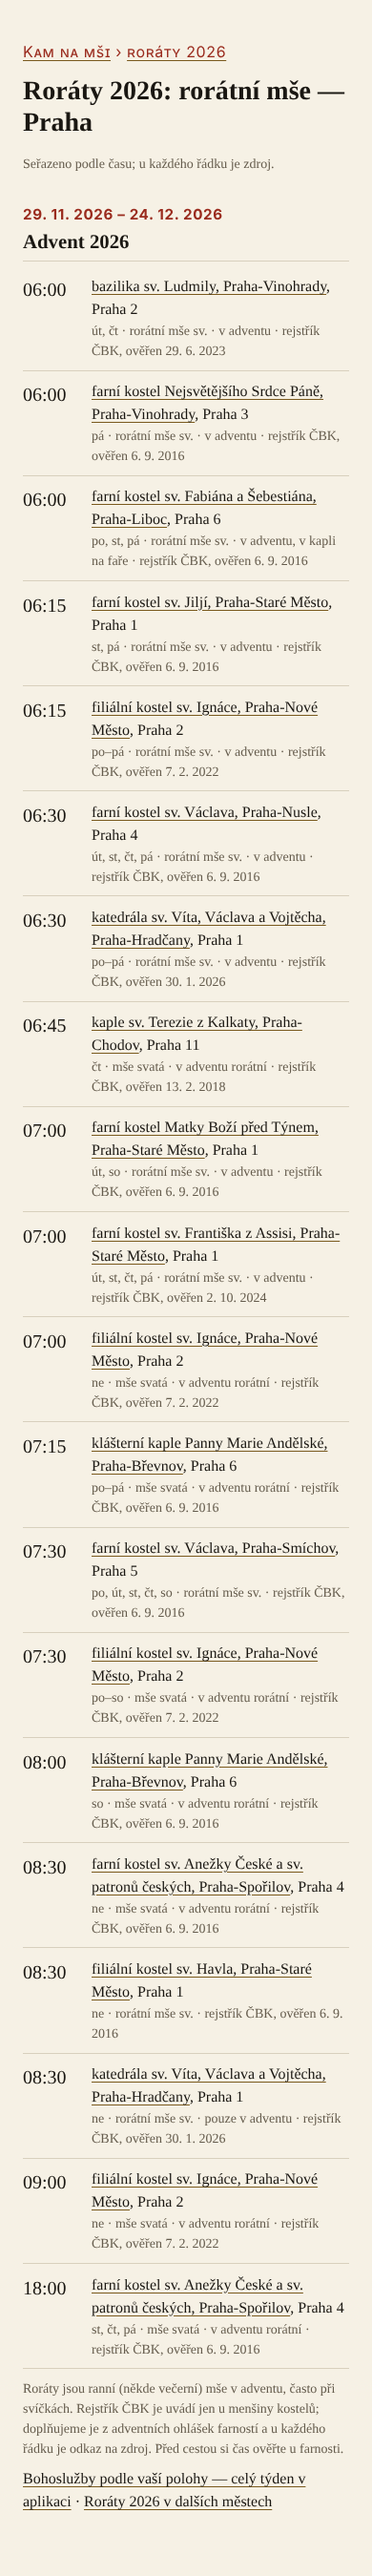
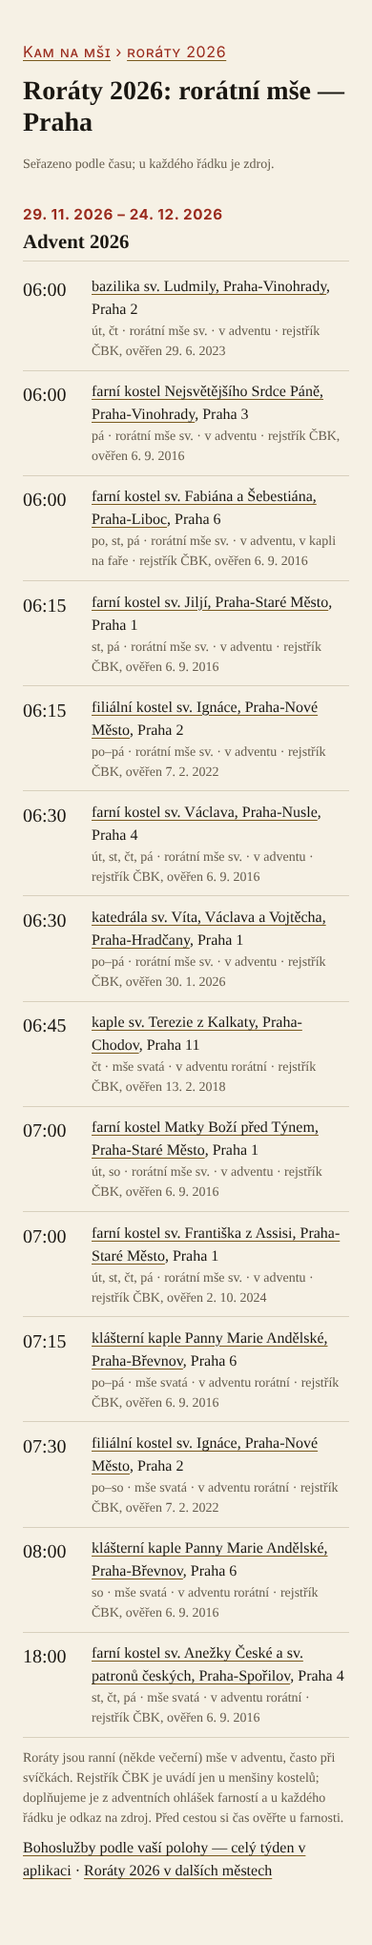
season pages: roráty time from the note; no Sundays; only rows that say Advent; http(s) sources
Review finding on #94: Chrudim listed the weekly 07:30 while the note says
'v adventu od 7:00 hodin roráty'. The note's time now wins. Sunday rows are
the ordinary Sunday Mass (no roráty on an Advent Sunday) and are left out;
year-round 'rorátní' rows that never mention Advent too. Source links only
for http(s).

Claude-Session: https://claude.ai/code/session_017mKbabRUGjLHwn1k2PHwjP

diff --git a/src/domain/season.ts b/src/domain/season.ts
@@ -108,7 +108,8 @@ interface Row {
 }
 
 function sourceHtml(c: SeasonCorrection | undefined, entry: RawEntry): string {
-  if (c) return `<a href="${esc(c.source)}">ohlášky farnosti</a> (${esc(c.source_date)})`
+  if (c && /^https?:\/\//i.test(c.source)) return `<a href="${esc(c.source)}">ohlášky farnosti</a> (${esc(c.source_date)})`
+  if (c) return `ohlášky farnosti (${esc(c.source_date)})`
   return entry.u ? `rejstřík ČBK, ověřen ${esc(dateCz(entry.u))}` : 'rejstřík ČBK'
 }
 
@@ -125,15 +126,20 @@ function rorateRows(id: string, entry: RawEntry, advent: { start: string; end: s
     if (!RORATE.test(`${r[4]} ${r[5]}`) || isConfession(r[4])) continue
     // "v adventu 2019": the parish wrote it for a past Advent
     if ([...r[5].matchAll(/\b(20\d\d)\b/g)].some((m) => Number(m[1]) < Number(advent.end.slice(0, 4)))) continue
+    // a year-round "rorátní" row that never says Advent is a registry label, not roráty
+    if (!/advent/i.test(`${r[4]} ${r[5]}`)) continue
     const rule = parseNote(r[5])
-    const on = [...r[0]].filter((wd) =>
+    // no roráty on an Advent Sunday: a Sunday row is the ordinary Sunday Mass
+    const on = [...r[0]].filter((wd) => wd !== '7').filter((wd) =>
       days.some((d) => {
         const [y, m, dd] = d.split('-').map(Number)
         return String(new Date(utc(d)).getUTCDay() || 7) === wd && rule.runsOn(y, m, dd)
       }),
     )
     if (!on.length) continue
-    out.push({ churchId: id, time: hhmm(r[1]), when: regDays(on.join('')), type: r[4], lang: normalizeLang(r[2]), greek: r[3] === 1, note: r[5].trim(), source: sourceHtml(undefined, entry) })
+    // "v adventu od 7:00 hodin roráty": the note gives the roráty time, the row the weekly one
+    const own = /(?:od|v)\s+(\d{1,2})[:.](\d{2})\s*(?:hod\S*\s+)?roráty/i.exec(r[5])
+    out.push({ churchId: id, time: own ? `${own[1].padStart(2, '0')}:${own[2]}` : hhmm(r[1]), when: regDays(on.join('')), type: r[4], lang: normalizeLang(r[2]), greek: r[3] === 1, note: r[5].trim(), source: sourceHtml(undefined, entry) })
   }
   for (const r of entry.x ?? []) {
     if (r[0] < advent.start || r[0] > advent.end || !RORATE.test(`${r[4]} ${r[5]}`)) continue

diff --git a/src/domain/season.test.ts b/src/domain/season.test.ts
@@ -78,6 +78,49 @@ describe('seasonCityPage advent — roráty', () => {
     expect(p.body).not.toContain('2019')
   })
 
+  it('lists the roráty time the note gives, not the weekly time of the row (Chrudim)', () => {
+    const p = seasonCityPage({
+      kind: 'advent',
+      city: CITY,
+      entries: {
+        '1': entry([['6', '07:30', 'česky', 0, '', 'v adventu od 7:00 hodin roráty']]),
+        '2': entry([['6', '07:30', 'česky', 0, '', 'zimní čas, v adventu od 6.30 hodin roráty']]),
+      },
+      corrections: [],
+      today: '2026-11-03',
+    })
+    const times = [...p.body.matchAll(/<span class="t">([^<]+)<\/span>/g)].map((m) => m[1])
+    expect(times).toEqual(['06:30', '07:00'])
+  })
+
+  it('leaves out Sundays (no roráty on an Advent Sunday) and year-round rows that never say Advent', () => {
+    const p = seasonCityPage({
+      kind: 'advent',
+      city: CITY,
+      entries: {
+        '1': entry([['7', '08:30', 'česky', 0, 'mše sv.', 'v adventu rorátní'], ['357', '18:00', 'česky', 0, 'mše sv.', 'v adventu rorátní']]),
+        '2': entry([['12346', '07:30', 'česky', 0, 'rorátní mše sv.', '']]),
+      },
+      corrections: [],
+      today: '2026-11-03',
+    })
+    expect(p.services).toBe(1)
+    expect(p.body).toContain('st, pá')
+    expect(p.body).not.toContain('08:30')
+    expect(p.body).not.toContain('07:30')
+  })
+
+  it('links only http(s) sources', () => {
+    const p = seasonCityPage({
+      kind: 'advent',
+      city: CITY,
+      entries: { '3': entry([], [['2026-12-05', '07:00', 'česky', 0, 'rorátní mše sv.', '']]) },
+      corrections: [{ id: '3', date: '2026-12-05', add: [['7:00', 'rorátní mše sv.']], source: 'javascript:alert(1)', source_date: 'x' }],
+      today: '2026-11-03',
+    })
+    expect(p.body).not.toContain('javascript:')
+  })
+
   it('is a plain page: title, canonical url, no script, escapes registry text', () => {
     expect(page.url).toBe('https://bohosluzby.dravec.org/advent/brno/')
     expect(page.title).toContain('Roráty 2026')
